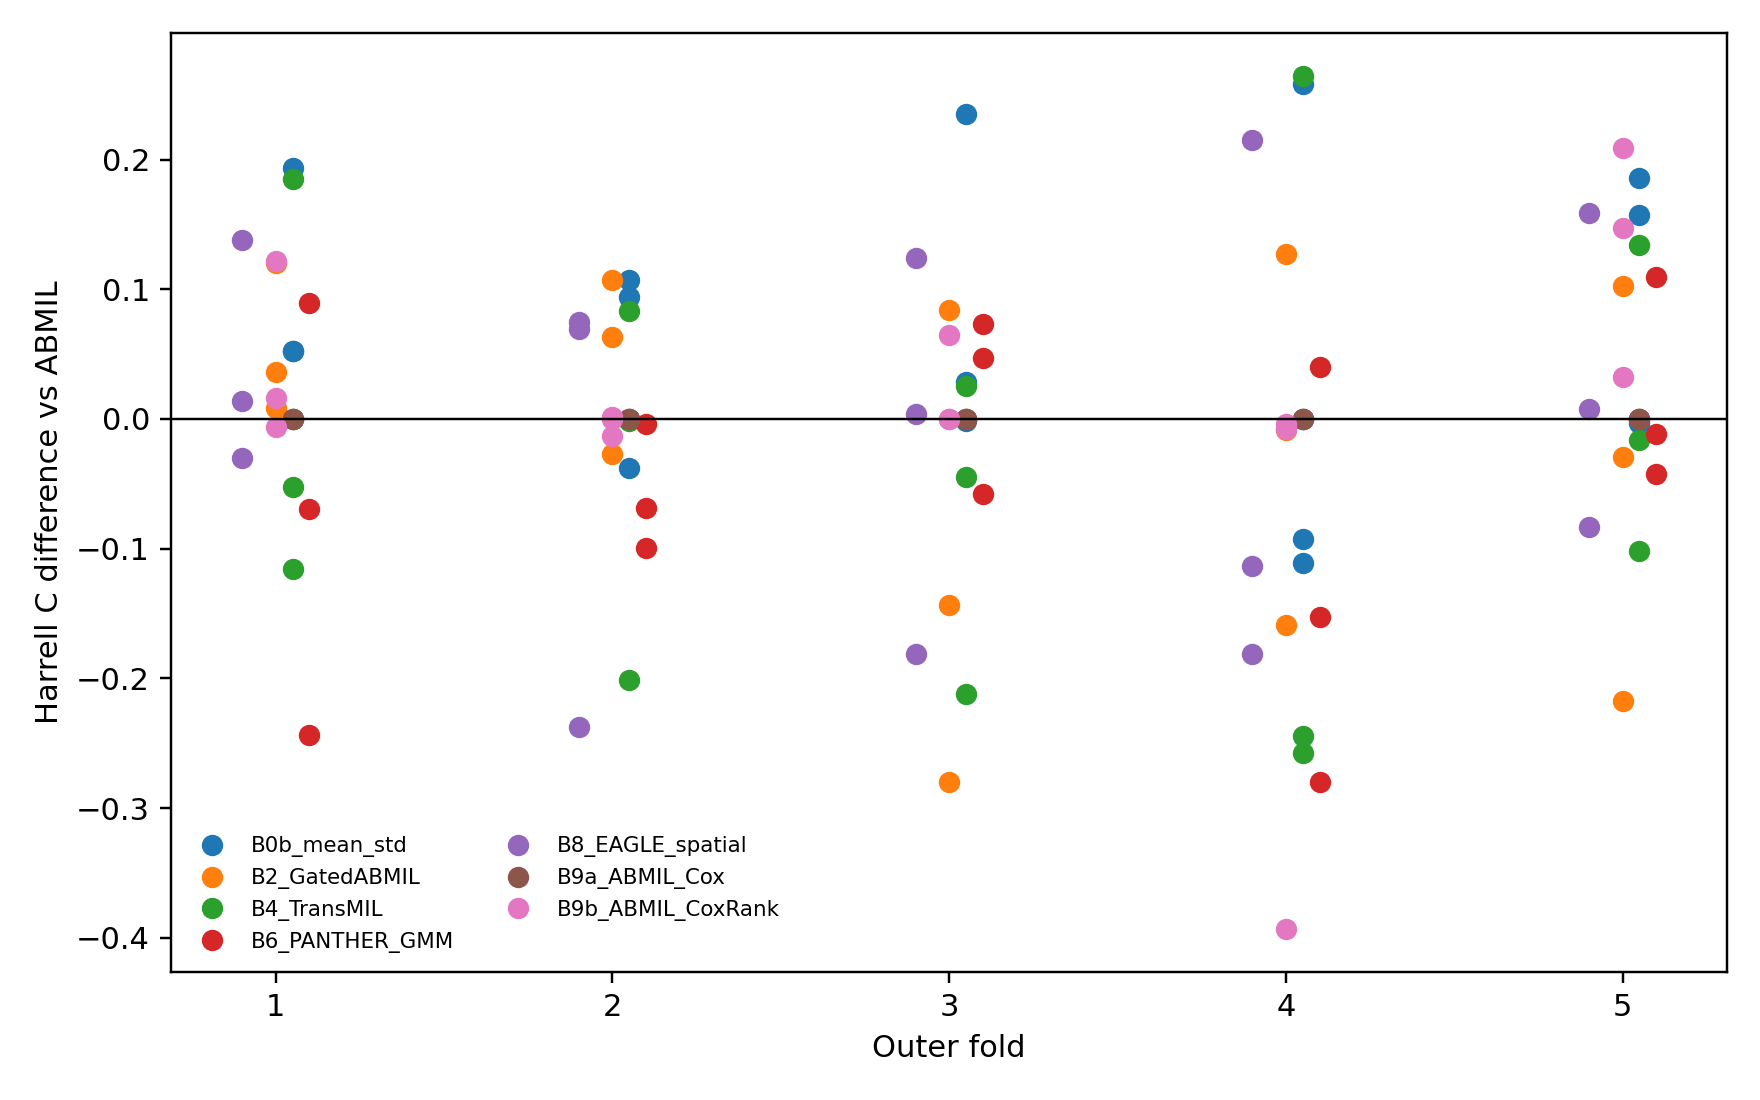
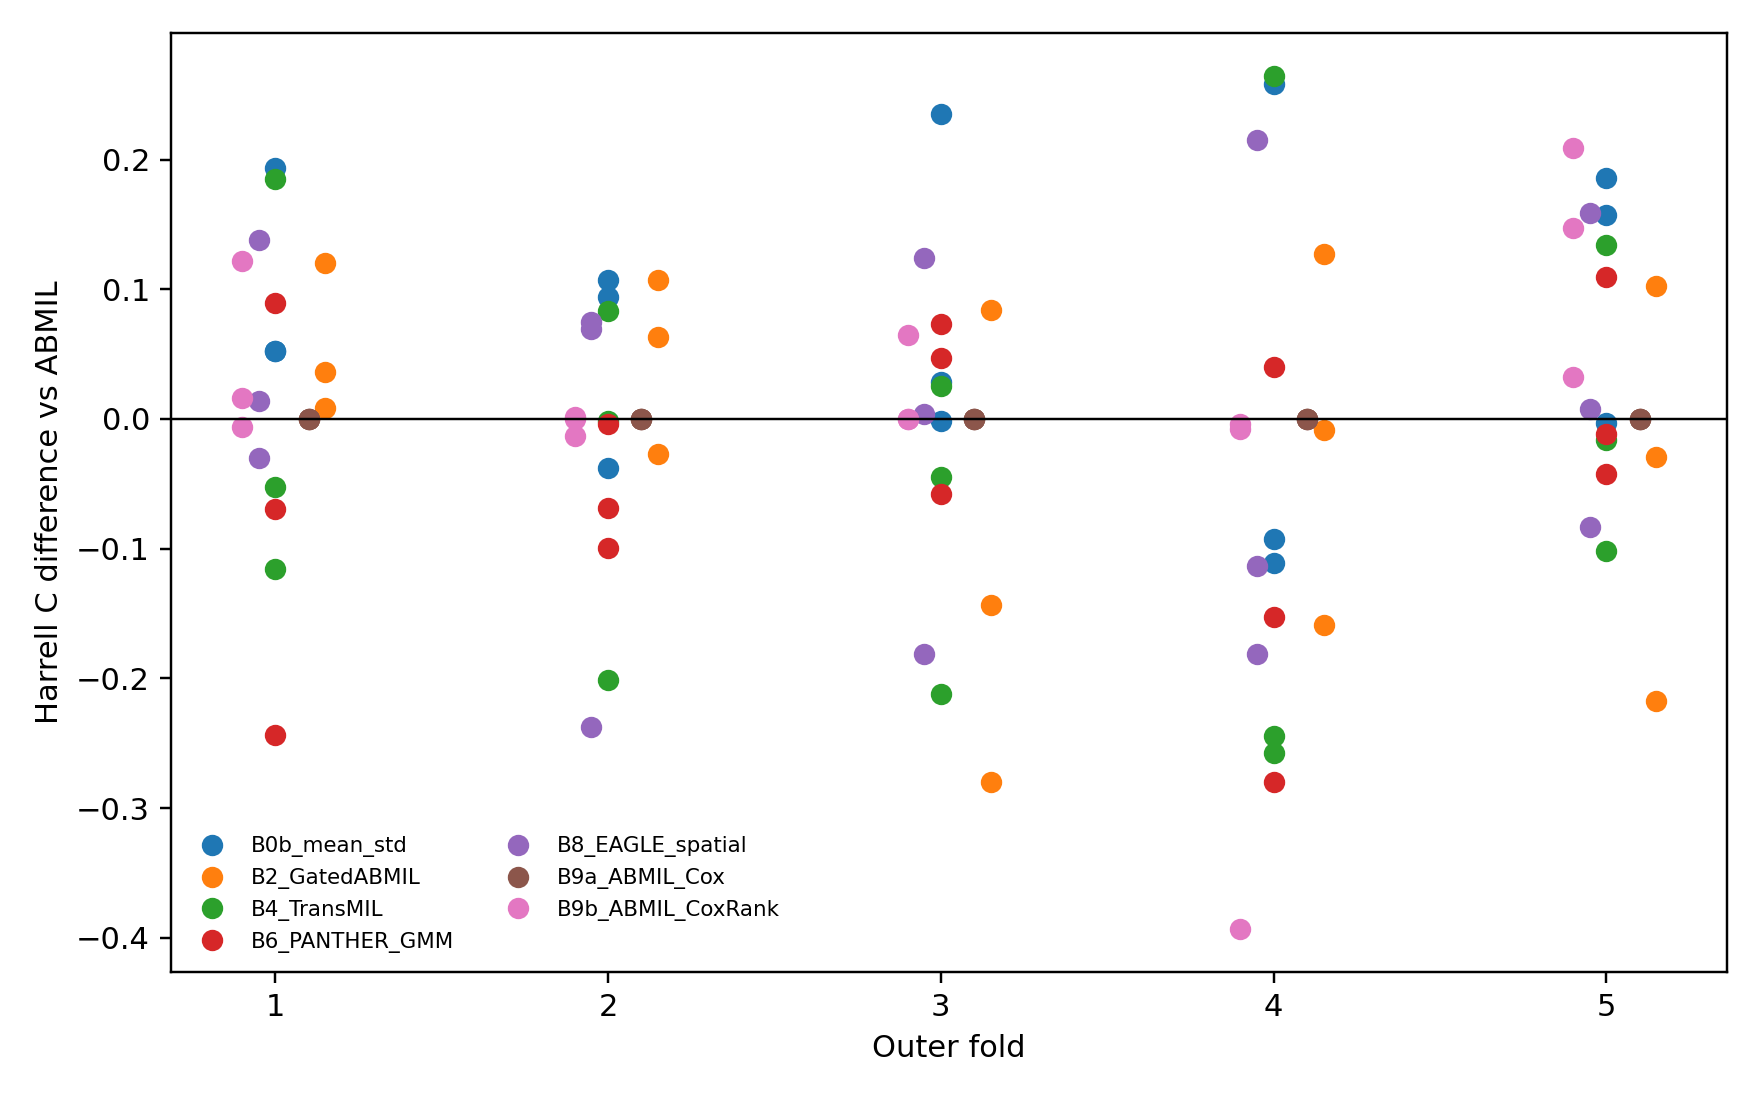
fix: repair Phase1.5 compute audit metadata

diff --git a/src/phase1_5_benchmark.py b/src/phase1_5_benchmark.py
@@ -1426,7 +1426,7 @@ The local feature-only benchmark has 65 observed events, so confidence intervals
 
     report_root = root / "reports" / EXPERIMENT_ID
     report_root.mkdir(parents=True, exist_ok=True)
-    for name in ["PHASE1_5_RESULTS.md", "PHASE1_5_DECISION.md", "PHASE1_5_REPRODUCIBILITY.md", "PHASE1_5_FAILURE_LOG.md"]:
+    for name in ["PHASE1_5_RESULTS.md", "PHASE1_5_DECISION.md", "PHASE1_5_REPRODUCIBILITY.md", "PHASE1_5_REPRODUCIBILITY.json", "PHASE1_5_FAILURE_LOG.md"]:
         shutil.copy2(out / name, report_root / name)
     for name in ["main_metrics.csv", "fold_metrics.csv", "attention_audit_summary.csv", "embedding_diagnostics.csv", "failure_ledger.csv"]:
         src = out / "tables" / name
@@ -1517,9 +1517,32 @@ def run(root: Path, resume: bool = False, force_audit: bool = False, max_epochs:
                     atomic_json(out / "run_state.json", state)
                     raise
     profile_marker = out / "configs" / "inference_profile_complete.json"
-    if not profile_marker.exists():
+    profile_csv = out / "compute" / "compute_profile.csv"
+    runnable_neural = [method for method in NEURAL_METHODS if method not in FAILED_METHODS]
+    profile_needs_refresh = True
+    if profile_csv.exists():
+        try:
+            current_profile = pd.read_csv(profile_csv)
+            profile_needs_refresh = not all(
+                ((current_profile["method"].astype(str) == method)
+                 & current_profile["inference_time_seconds"].notna()).any()
+                for method in runnable_neural
+            )
+        except (OSError, ValueError, KeyError):
+            profile_needs_refresh = True
+    # A completion marker alone is not sufficient: an interrupted/resumed
+    # report build may have left a stale profile with blank inference fields.
+    # Refreshing this table only loads saved checkpoints and never retrains.
+    if profile_needs_refresh:
         profile_rows.extend(measure_saved_inference(root, data, patients, slides, out, device))
         atomic_json(profile_marker, {"created_at": utc_now(), "training_time_note": "initial run did not persist per-job training wall time; inference and peak memory remeasured from saved checkpoints"})
+    if profile_csv.exists():
+        try:
+            # Preserve previously measured rows on --resume; newly measured
+            # rows are appended after them and win in aggregate_metrics().
+            profile_rows = pd.read_csv(profile_csv).to_dict("records") + profile_rows
+        except (OSError, ValueError, KeyError):
+            pass
     alias_rows = alias_b9a(out, state)
     profile_rows.extend(alias_rows)
     write_failures(out)
